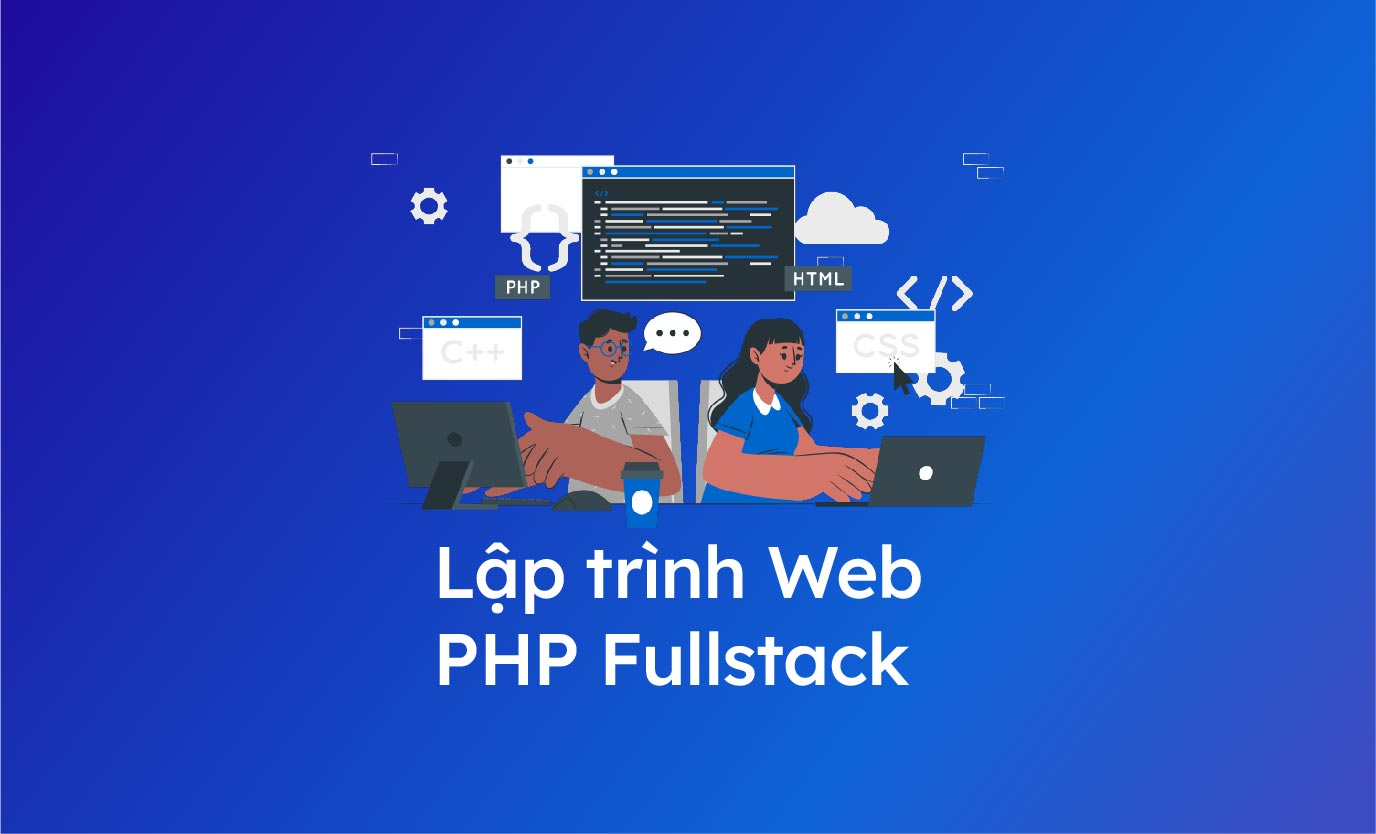
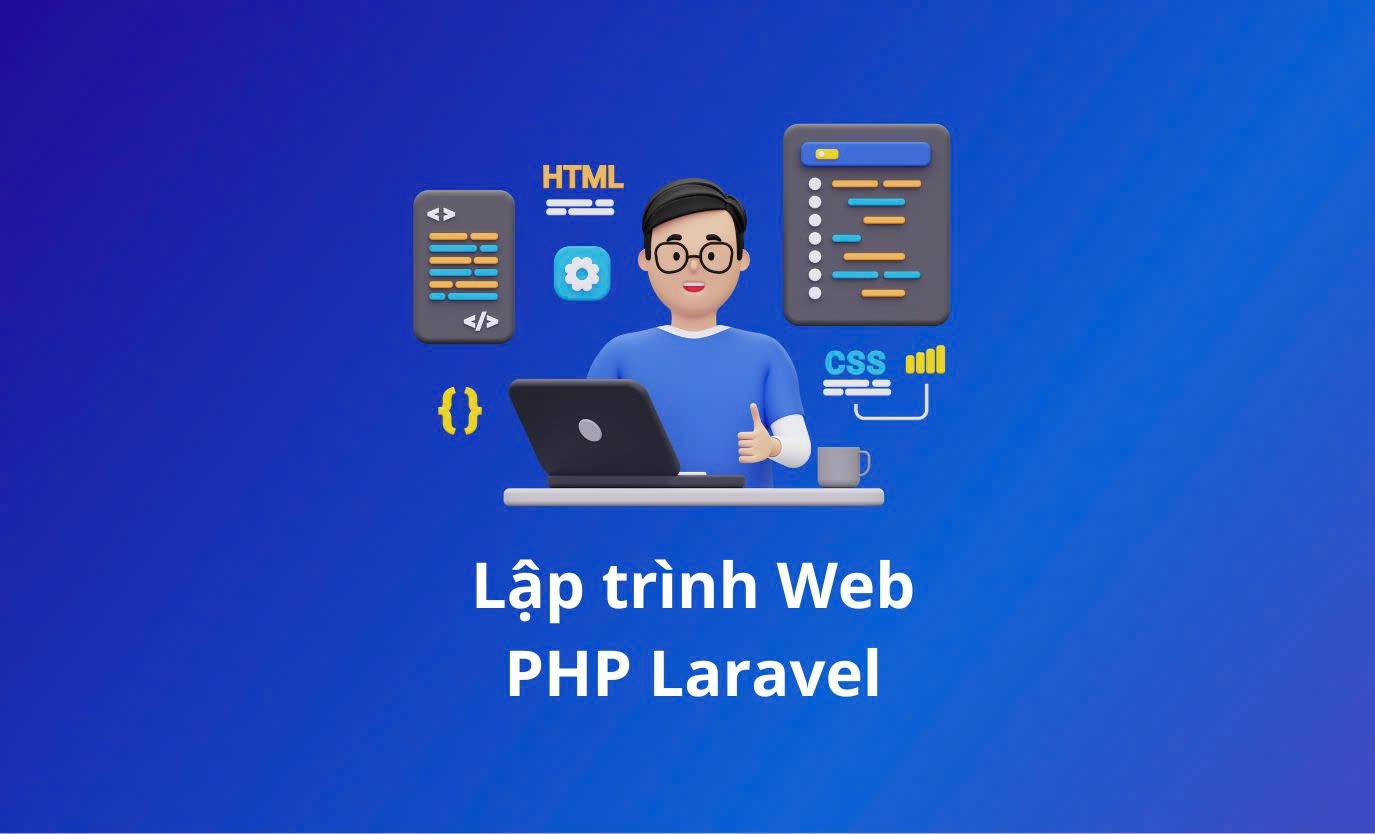
đổi ảnh thumbnail

Changed region(s): [[0.2749, 0.1247, 0.7331, 0.8417], [0.0, 0.9976, 1.0, 1.0]]

diff --git a/src/index.html b/src/index.html
@@ -6,7 +6,7 @@
 	<meta http-equiv="X-UA-Compatible" content="IE=edge" />
 	<meta name="viewport" content="width=device-width, initial-scale=1, shrink-to-fit=no" />
 	<meta name="keywords" content="Lập trình Web Fullstack" />
-	<meta property="og:title" content="Lộ trình Web PHP Laravel Fullstack" />
+	<meta property="og:title" content="Lộ trình Web PHP Laravel" />
 	<meta property="og:description" content="" />
 	<meta name="Description" content="" />
 	<meta property="og:image" content="https://php.techmaster.vn/img/thumbnail.jpg" />
